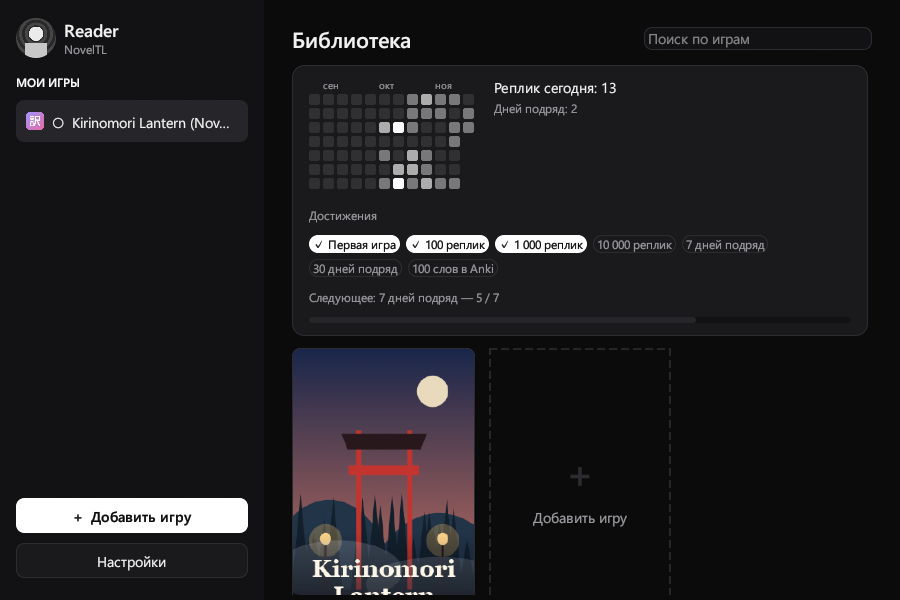
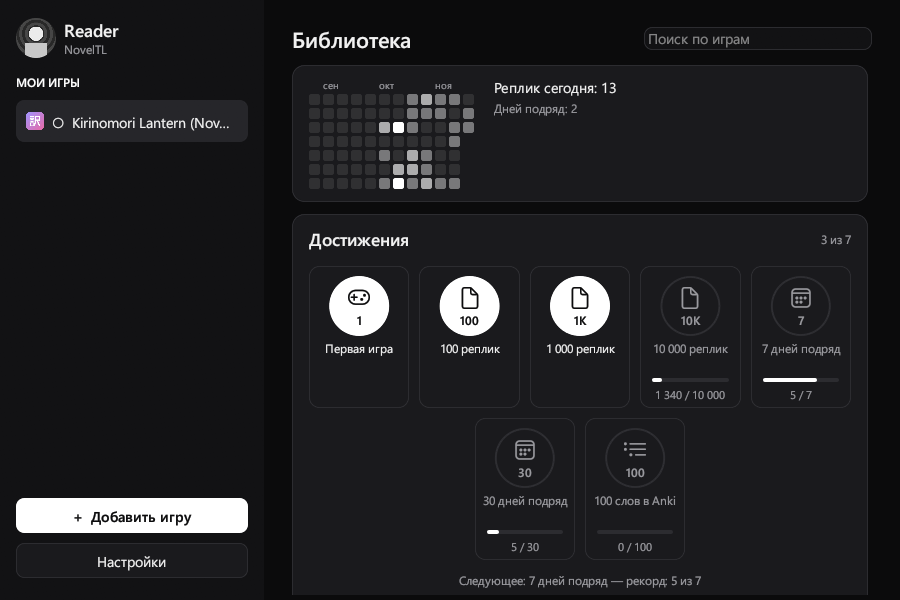
Достижения — настоящие значки
Отдельная карточка «Достижения»: сетка значков с медальоном, иконкой,
названием, прогрессом у незаработанных и подсказкой при наведении;
«N из 7». Для серий дней пишется «рекорд», чтобы не путать с текущей
серией.

diff --git a/noveltl-rs/noveltl/src/ui/main_window.rs b/noveltl-rs/noveltl/src/ui/main_window.rs
@@ -840,9 +840,8 @@ impl MainWindow {
                         ui.label(theme::small(tf("Дней подряд: {}", &[&all.streak(&snap.today)])));
                     });
                 });
-                ui.add_space(6.0);
-                Self::achievements(ui, profiles, &all, snap.anki_added);
             });
+            Self::achievements(ui, w, profiles, &all, snap.anki_added);
             let cols = (((w + GAP) / (170.0 + GAP)) as usize).max(1);
             let cw = ((w - GAP * (cols as f32 - 1.0)) / cols as f32).min(190.0);
             ui.spacing_mut().item_spacing = Vec2::new(GAP, GAP);
@@ -867,8 +866,8 @@ impl MainWindow {
         });
     }
 
-    /// Значки достижений (с переносом строк) и прогресс к ближайшему незаработанному.
-    fn achievements(ui: &mut egui::Ui, profiles: &[Profile], all: &ReadStats, anki: u64) {
+    /// Карточка достижений: сетка значков (по ширине, с переносом) и прогресс к ближайшему незаработанному.
+    fn achievements(ui: &mut egui::Ui, w: f32, profiles: &[Profile], all: &ReadStats, anki: u64) {
         let p = pal();
         let totals = achievements::Totals {
             lines: profiles.iter().map(|pr| pr.stats.lines).sum(),
@@ -877,29 +876,79 @@ impl MainWindow {
             games: profiles.iter().filter(|pr| pr.stats.lines > 0).count() as u64,
         };
         let badges = achievements::badges(totals);
-        ui.label(theme::small(t("Достижения")));
-        ui.horizontal_wrapped(|ui| {
-            ui.spacing_mut().item_spacing = Vec2::new(6.0, 6.0);
-            for b in &badges {
-                let (fill, stroke, text) = if b.earned() {
-                    (p.accent, p.accent, RichText::new(format!("✓ {}", t(b.name))).size(12.0).color(p.on_accent))
+        // глифы Segoe MDL2: игра, документ x3, календарь x2, закладки
+        const ICONS: [char; 7] = ['\u{E7FC}', '\u{E8A5}', '\u{E8A5}', '\u{E8A5}', '\u{E787}', '\u{E787}', '\u{E8A4}'];
+        const GAP: f32 = 10.0;
+        theme::card_frame().show(ui, |ui| {
+            ui.set_width(w - 34.0);
+            let avail = ui.available_width();
+            let got = badges.iter().filter(|b| b.earned()).count();
+            ui.horizontal(|ui| {
+                ui.label(theme::h2(t("Достижения")));
+                ui.with_layout(Layout::right_to_left(Align::Center), |ui| {
+                    ui.label(theme::small(tf("{} из {}", &[&got, &badges.len()])));
+                });
+            });
+            ui.add_space(4.0);
+            let cols = (((avail + GAP) / (96.0 + GAP)) as usize).clamp(1, badges.len());
+            let tw = ((avail - GAP * (cols as f32 - 1.0)) / cols as f32).min(140.0);
+            ui.spacing_mut().item_spacing = Vec2::new(GAP, GAP);
+            for (row, chunk) in badges.chunks(cols).enumerate() {
+                let rw = chunk.len() as f32 * tw + (chunk.len() as f32 - 1.0) * GAP;
+                ui.horizontal(|ui| {
+                    ui.add_space(((avail - rw) / 2.0).max(0.0));
+                    for (i, b) in chunk.iter().enumerate() {
+                        let icon = ICONS[row * cols + i];
+                        let (rect, resp) = ui.allocate_exact_size(Vec2::new(tw, 142.0), Sense::hover());
+                        let earned = b.earned();
+                        let pt = ui.painter();
+                        pt.rect(rect, 10.0, Color32::TRANSPARENT, egui::Stroke::new(1.0_f32, p.border), egui::StrokeKind::Inside);
+                        let c = egui::pos2(rect.center().x, rect.top() + 12.0 + 28.0);
+                        let (fill, ring, fg) = if earned { (p.accent, p.accent, p.on_accent) } else { (Color32::TRANSPARENT, p.border, p.dim) };
+                        pt.circle(c, 28.0, fill, egui::Stroke::new(2.0_f32, ring));
+                        if theme::has_icon_font() {
+                            pt.text(c - Vec2::new(0.0, 8.0), egui::Align2::CENTER_CENTER, icon, egui::FontId::new(22.0, theme::icon_family()), fg);
+                            pt.text(c + Vec2::new(0.0, 14.0), egui::Align2::CENTER_CENTER, b.short, egui::FontId::new(12.0, theme::bold_family()), fg);
+                        } else {
+                            pt.text(c, egui::Align2::CENTER_CENTER, b.short, egui::FontId::new(20.0, theme::bold_family()), fg);
+                        }
+                        let mut job = egui::text::LayoutJob::simple(
+                            t(b.name).to_string(),
+                            egui::FontId::proportional(12.0),
+                            if earned { p.text } else { p.dim },
+                            tw - 12.0,
+                        );
+                        job.halign = Align::Center;
+                        let g = pt.layout_job(job);
+                        pt.galley(egui::pos2(rect.center().x, rect.top() + 74.0), g, p.text);
+                        if !earned {
+                            let bar = egui::Rect::from_min_size(egui::pos2(rect.left() + 12.0, rect.bottom() - 30.0), Vec2::new(tw - 24.0, 4.0));
+                            pt.rect_filled(bar, 2.0, p.border);
+                            let f = (b.have as f32 / b.need as f32).clamp(0.0, 1.0);
+                            pt.rect_filled(egui::Rect::from_min_size(bar.min, Vec2::new(bar.width() * f, 4.0)), 2.0, p.accent);
+                            pt.text(
+                                egui::pos2(rect.center().x, rect.bottom() - 14.0),
+                                egui::Align2::CENTER_CENTER,
+                                format!("{} / {}", thousands(b.have), thousands(b.need)),
+                                egui::FontId::proportional(11.0),
+                                p.dim,
+                            );
+                        }
+                        resp.on_hover_text(t(b.hint));
+                    }
+                });
+            }
+            if let Some(b) = achievements::next_badge(&badges) {
+                ui.add_space(2.0);
+                let line = if b.streak {
+                    tf("Следующее: {} — рекорд: {} из {}", &[&t(b.name), &thousands(b.have), &thousands(b.need)])
                 } else {
-                    (Color32::TRANSPARENT, p.border, theme::small(t(b.name)))
+                    tf("Следующее: {} — осталось {}", &[&t(b.name), &thousands(b.need - b.have)])
                 };
-                // Button, а не Frame: только отдельные виджеты переносятся по строкам
-                ui.add(
-                    egui::Button::new(text)
-                        .fill(fill)
-                        .stroke(egui::Stroke::new(1.0_f32, stroke))
-                        .corner_radius(10)
-                        .sense(Sense::hover()),
-                );
+                ui.vertical_centered(|ui| ui.label(theme::small(line)));
+                ui.add(egui::ProgressBar::new(b.have as f32 / b.need as f32).desired_height(6.0));
             }
         });
-        if let Some(b) = achievements::next_badge(&badges) {
-            ui.label(theme::small(tf("Следующее: {} — {} / {}", &[&t(b.name), &thousands(b.have), &thousands(b.need)])));
-            ui.add(egui::ProgressBar::new(b.have as f32 / b.need as f32).desired_height(6.0));
-        }
     }
 
     /// Карточка игры: обложка 2:3; при наведении приподнимается и показывает «Играть».

diff --git a/noveltl-rs/noveltl-core/src/i18n/app.rs b/noveltl-rs/noveltl-core/src/i18n/app.rs
@@ -386,7 +386,16 @@ pub(crate) const ROWS: &[Row] = &[
     ("У вас последняя версия ({})", ["You have the latest version ({})", "最新バージョンです ({})", "已是最新版本 ({})", "최신 버전입니다 ({})"]),
     ("Не удалось проверить обновления", ["Could not check for updates", "更新を確認できませんでした", "无法检查更新", "업데이트를 확인하지 못했습니다"]),
     ("Достижения", ["Achievements", "実績", "成就", "업적"]),
-    ("Следующее: {} — {} / {}", ["Next: {} — {} / {}", "次: {} — {} / {}", "下一个：{} — {} / {}", "다음: {} — {} / {}"]),
+    ("{} из {}", ["{} of {}", "{} / {}", "{} / {}", "{} / {}"]),
+    ("Следующее: {} — осталось {}", ["Next: {} — {} to go", "次: {} — あと {}", "下一个：{} — 还差 {}", "다음: {} — {} 남음"]),
+    ("Следующее: {} — рекорд: {} из {}", ["Next: {} — best streak: {} of {}", "次: {} — 最長記録: {} / {}", "下一个：{} — 最高纪录：{} / {}", "다음: {} — 최고 기록: {} / {}"]),
+    ("Прочитайте первую реплику в любой игре", ["Read your first line in any game", "どれかのゲームで最初のセリフを読む", "在任意游戏中读第一句台词", "아무 게임에서 첫 대사를 읽어 보세요"]),
+    ("Прочитайте 100 реплик во всех играх", ["Read 100 lines across all games", "全ゲーム合計で100行読む", "所有游戏累计读 100 句台词", "모든 게임에서 대사 100줄 읽기"]),
+    ("Прочитайте 1 000 реплик во всех играх", ["Read 1,000 lines across all games", "全ゲーム合計で1,000行読む", "所有游戏累计读 1,000 句台词", "모든 게임에서 대사 1,000줄 읽기"]),
+    ("Прочитайте 10 000 реплик во всех играх", ["Read 10,000 lines across all games", "全ゲーム合計で10,000行読む", "所有游戏累计读 10,000 句台词", "모든 게임에서 대사 10,000줄 읽기"]),
+    ("Читайте 7 дней подряд (лучшая серия)", ["Read 7 days in a row (best streak)", "7日連続で読む（最長記録）", "连续 7 天阅读（最长纪录）", "7일 연속 읽기(최고 기록)"]),
+    ("Читайте 30 дней подряд (лучшая серия)", ["Read 30 days in a row (best streak)", "30日連続で読む（最長記録）", "连续 30 天阅读（最长纪录）", "30일 연속 읽기(최고 기록)"]),
+    ("Добавьте 100 слов в Anki из NovelTL", ["Add 100 words to Anki from NovelTL", "NovelTL から Anki に100語追加する", "通过 NovelTL 向 Anki 添加 100 个词", "NovelTL에서 Anki에 단어 100개 추가하기"]),
     ("Первая игра", ["First game", "最初のゲーム", "第一款游戏", "첫 게임"]),
     ("100 реплик", ["100 lines", "100 行", "100 句", "100줄"]),
     ("1 000 реплик", ["1,000 lines", "1,000 行", "1,000 句", "1,000줄"]),

diff --git a/noveltl-rs/noveltl-core/src/achievements.rs b/noveltl-rs/noveltl-core/src/achievements.rs
@@ -13,6 +13,12 @@ pub struct Totals {
 pub struct Badge {
     /// русская строка-ключ для `t()`
     pub name: &'static str,
+    /// русская строка-ключ: за что даётся значок
+    pub hint: &'static str,
+    /// короткая метка на медальоне
+    pub short: &'static str,
+    /// значок за серию (его счётчик — рекорд, а не текущая серия)
+    pub streak: bool,
     pub have: u64,
     pub need: u64,
 }
@@ -24,15 +30,15 @@ impl Badge {
 }
 
 pub fn badges(t: Totals) -> Vec<Badge> {
-    let b = |name, have, need| Badge { name, have, need };
+    let b = |name, hint, short, streak, have, need| Badge { name, hint, short, streak, have, need };
     vec![
-        b("Первая игра", t.games, 1),
-        b("100 реплик", t.lines, 100),
-        b("1 000 реплик", t.lines, 1_000),
-        b("10 000 реплик", t.lines, 10_000),
-        b("7 дней подряд", t.best_streak, 7),
-        b("30 дней подряд", t.best_streak, 30),
-        b("100 слов в Anki", t.anki, 100),
+        b("Первая игра", "Прочитайте первую реплику в любой игре", "1", false, t.games, 1),
+        b("100 реплик", "Прочитайте 100 реплик во всех играх", "100", false, t.lines, 100),
+        b("1 000 реплик", "Прочитайте 1 000 реплик во всех играх", "1K", false, t.lines, 1_000),
+        b("10 000 реплик", "Прочитайте 10 000 реплик во всех играх", "10K", false, t.lines, 10_000),
+        b("7 дней подряд", "Читайте 7 дней подряд (лучшая серия)", "7", true, t.best_streak, 7),
+        b("30 дней подряд", "Читайте 30 дней подряд (лучшая серия)", "30", true, t.best_streak, 30),
+        b("100 слов в Anki", "Добавьте 100 слов в Anki из NovelTL", "100", false, t.anki, 100),
     ]
 }
 
@@ -58,5 +64,6 @@ mod tests {
         assert_eq!(next_badge(&bs).unwrap().name, "7 дней подряд");
         let all = badges(Totals { lines: 99_999, best_streak: 99, anki: 999, games: 9 });
         assert!(next_badge(&all).is_none());
+        assert!(bs.iter().all(|b| !b.hint.is_empty() && !b.short.is_empty()));
     }
 }
